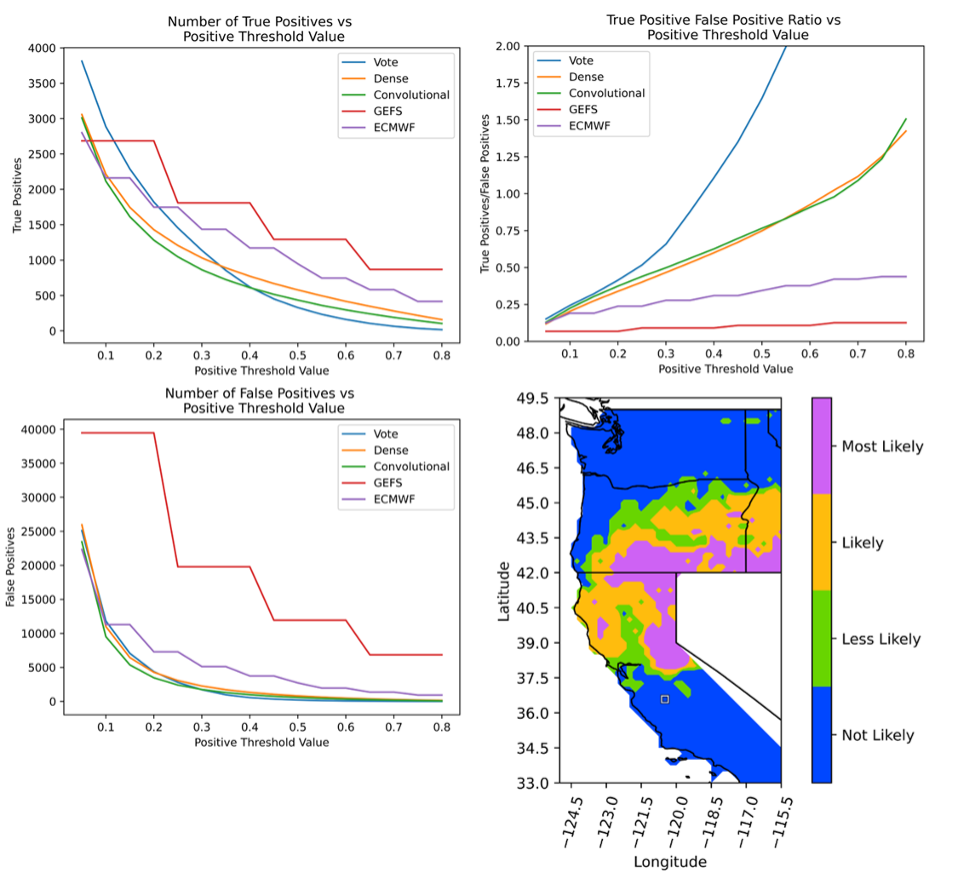
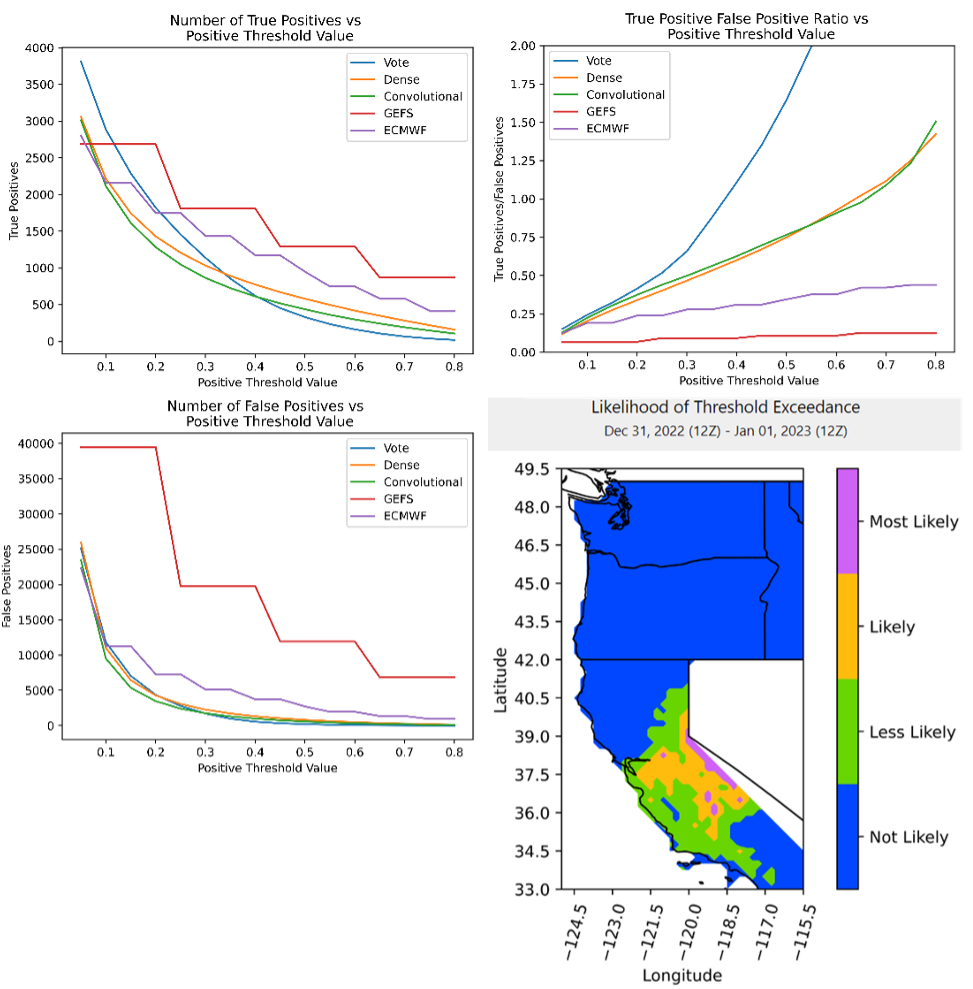
more updates to version section of users guide, quick edit to user's guide button

diff --git a/public/user_guide.html b/public/user_guide.html
@@ -341,43 +341,37 @@
             <br>
             <h3><b style="color:#e0f42b">Version 2.1</b></h3>
             <p>
-                Version 2.1 (the previous operational version) improved on Version 2.0 using data augmentation in the
-                training set. By replicating days when 99th percentile rain events were observed, we can increase the occurrence of 
-                the extreme events in the training dataset substantially — to reach approximately 10% of the dataset. This resulted in 
-                substantially better training metrics over the initial internal version. This operational version uses networks
-                trained on the augmented dataset for the 99th percentile category. This version became the operational version on 23
-                December 2022, with the first 99th percentile results displayed at that time.
+                Version 2.1 (the previous operational version) improved on Version 2.0 using data augmentation in the training set. 
+                By replicating days when 99th percentile rain events were observed, we can increase the occurrence of the extreme events in 
+                the training dataset substantially—to reach approximately 10% of the dataset. This resulted in substantially better training metrics
+                 over the initial internal version. This operational version uses networks trained on the augmented dataset for the 99th percentile category. 
+                 This version became the operational version on 23 December 2022, with the first 99th percentile results displayed at that time.
             </p>
             <img class="img-fluid" src="resources/versioning_images_2.png" alt="versioning_image_2">
             <br>
             <br>
             <h3><b style="color:#e0f42b">Version 2.2</b></h3>
-            <p> Version 2.2 (now the operational version) now provides users who are interested in the most 
-                extreme (99 th percentile) events with two mapping granularities—the same look and feel of Version 2.1, 
-                with the option to alternatively select a 4-category system (99th percentile only) that focuses attention 
-                towards the most likely areas of exceedance at that level (as exemplified below). Setting the thresholds for the 
-                four categories, or levels, is a balancing act — seeking to minimize the number of false positives, while aspiring to 
-                retain the largest number of true positives. </p>
-                
-                <p>There is no single perfect number for any of the three category 
-                boundaries: Not Likely / Less Likely; Less Likely to Likely; and Likely to Most Likely. While the ratio of true 
-                to false positives rises rapidly as a function of the Less Likely to Likely threshold, it runs the risk of dropping
-                 too many true positives. Yet, it is critical to limit the number of false positives to ensure the tool is operationally useful. 
-                 That said, any dropped Most Likely true positives will still end up in the Likely category. For that reason, we settled on the 
-                 following limits (subject to change in the future if warranted): Not Likely, 0.0 to 0.1; Less Likely, 0.1 to 0.2; Likely, 0.2 to 0.4; and Most Likely,
-                  0.4 and up. In the region of 0.4, the ratio of true to false positives has improved to approximately unity for the Vote model. Any higher and too many
-                   true positives (verified 99th percentile grid points) are dropped for little loss of residual false positives.
+            <p>Version 2.2 (now the operational version) now provides users who are interested in the most extreme (99th percentile) events with two mapping
+                 granularities—the same look and feel of Version 2.1, with the option to alternatively select a 4-category system (99th percentile only) that 
+                 focuses attention towards the most likely areas of exceedance at that level (as exemplified below). Setting the thresholds for the four categories, 
+                 or levels, is a balancing act—seeking minimize the number of false positives, while aspiring to retain the largest number of true positives. </p>
+                 <p>
+                 There is no single perfect number for any of the three category boundaries: Not Likely / Less Likely; Less Likely to Likely; and Likely to Most Likely. 
+                 While the ratio of true to false positives rises rapidly as a function of the Less Likely to Likely threshold, it runs the risk of dropping too many true positives. 
+                 Yet, it is critical to limit the number of false positives to ensure the tool is operationally useful. That said, any dropped Most Likely true positives will still 
+                 end up in the Likely category. For that reason, we settled on the following limits (subject to change in the future if warranted): Not Likely, 0.0 to 0.1; Less Likely, 
+                 0.1 to 0.2; Likely, 0.2 to 0.4; and Most Likely, 0.4 and up. In the region of 0.4, the ratio of true to false positives has improved to approximately unity for the Vote model. 
+                 Any higher and too many true positives (verified 99th percentile grid points) are dropped for little loss of residual false positives.
             </p>
             <img class="img-fluid" src="resources/v2-2.png" alt="versioning_image_3">
             <br>
             <br>
             <h3><b style="color:#e0f42b">Version 3.0</b></h3>
-            <p>Version 3.0 is under currently development. It seeks to optimize weighting of the four models 
-                (NCEP GEFS, ECMWF EPS, convolutional neural network, and densely connected neural network) using a scheme that 
-                balances the model contributions (confidence-weighted votes) against the skill that they add—as a function of
-                 prediction day (1-10) and threshold (50% to 99%) percentile. We are seeing some modest additional skill, 
-                 especially at the highest rainfall categories and in the near-term predictions (Days 1-3). Implementation 
-                 is anticipated prior to 31 January 2022.</p>
+            <p>This version is under currently development. It seeks to optimize weighting of the four models
+                 (NCEP GEFS, ECMWF EPS, convolutional neural network, and densely connected neural network) using a scheme that balances 
+                 the model contributions (confidence-weighted votes) against the skill that they add—as a function of prediction day (1-10)
+                  and threshold (50% to 99%) percentile. We are seeing some modest additional skill, especially at the highest rainfall categories 
+                  and in the near-term predictions (Days 1-3). Implementation is anticipated prior to 31 January 2022.</p>
 
             <br>
             <br>

diff --git a/public/index.html b/public/index.html
@@ -252,7 +252,7 @@
         </div>
         <div class="col-sm-5 control-panel-section" id="control-panel-section-id">
           <div class="user-preface">
-            <a href='/user_guide' target="_blank" style ="width:100%"><div class="btn btn-lg btn-primary users-manual" id="users-manual">User's Guide v2.1</div></a>
+            <a href='/user_guide' target="_blank" style ="width:100%"><div class="btn btn-lg btn-primary users-manual" id="users-manual">User's Guide v2.2</div></a>
             <div class="theme-selection">
               <label class="theme-switch-label">
                 <input id="theme-switch-id" class="theme-switch" type="checkbox" checked>
